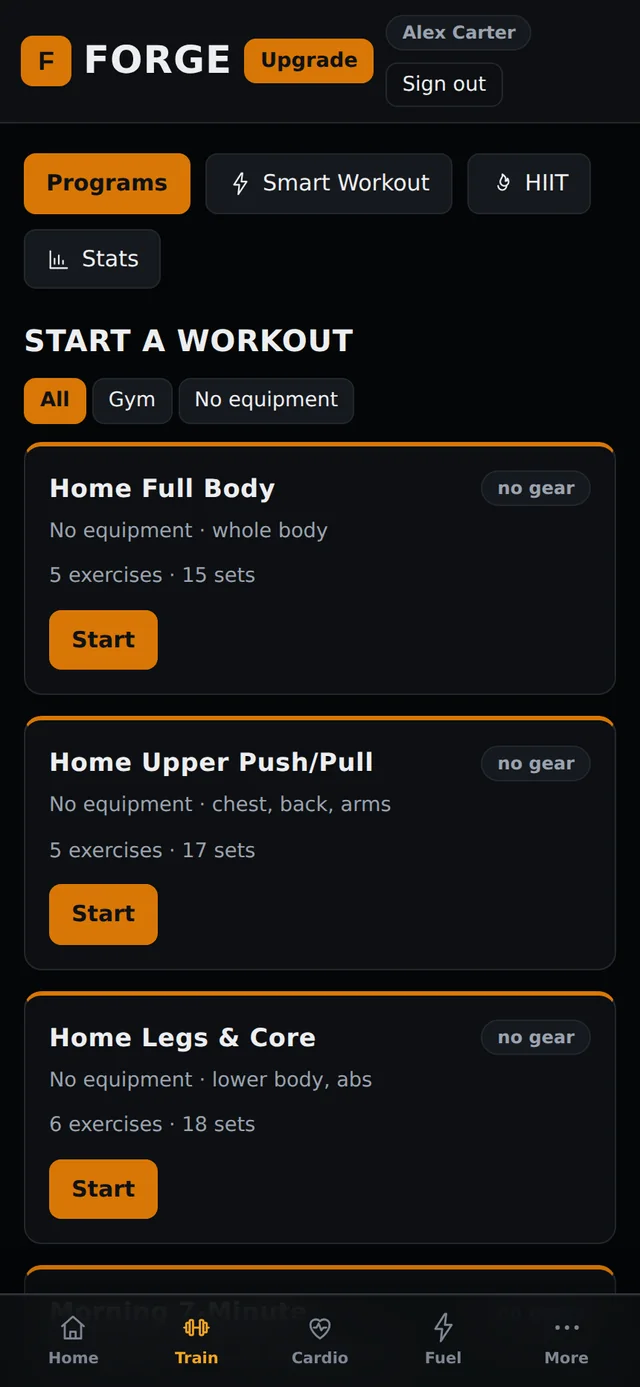
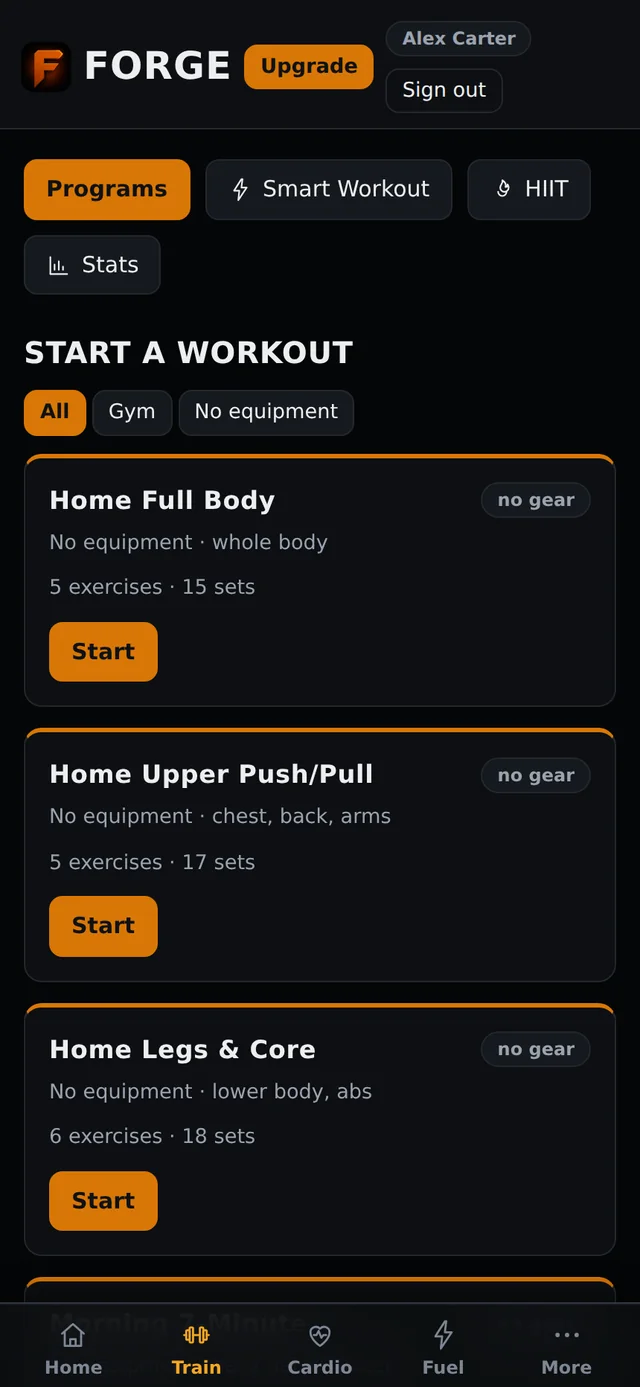
Refresh Forge web-app screenshots
Re-ran Forge locally against its updated build and captured four fresh
screens — Daily Readiness dashboard, Train, GPS Cardio, and Fuel — replacing
the older set. (Apex keeps its existing azure screens; Lyra re-capture was
stopped mid-run.)

Build green (48 pages).

Claude-Session: https://claude.ai/code/session_01EUjV5ohord2k6462M2x6JH

diff --git a/src/data/apps.ts b/src/data/apps.ts
@@ -148,11 +148,10 @@ export const apps: App[] = [
     appStoreUrl: '',
     webAppUrl: 'https://forge-wine-nine.vercel.app', // live web app
     screenshots: [
-      { src: '/apps/forge/screens/dashboard.webp', alt: 'Forge — daily readiness and today’s mission' },
-      { src: '/apps/forge/screens/train.webp', alt: 'Forge — programs and a smart workout generator' },
+      { src: '/apps/forge/screens/dashboard.webp', alt: 'Forge — Daily Readiness and today’s mission' },
+      { src: '/apps/forge/screens/train.webp', alt: 'Forge — programs and a Smart Workout generator' },
+      { src: '/apps/forge/screens/cardio.webp', alt: 'Forge — GPS run, ride & walk tracking' },
       { src: '/apps/forge/screens/fuel.webp', alt: 'Forge — TDEE targets and macro tracking' },
-      { src: '/apps/forge/screens/body.webp', alt: 'Forge — body metrics and age-aware health checks' },
-      { src: '/apps/forge/screens/mind.webp', alt: 'Forge — a daily mind check-in' },
     ],
     legalLastUpdated: '2026-07-19',
     legal: { dataModel: 'standard', usesSubscriptions: true, usesNotifications: false },
